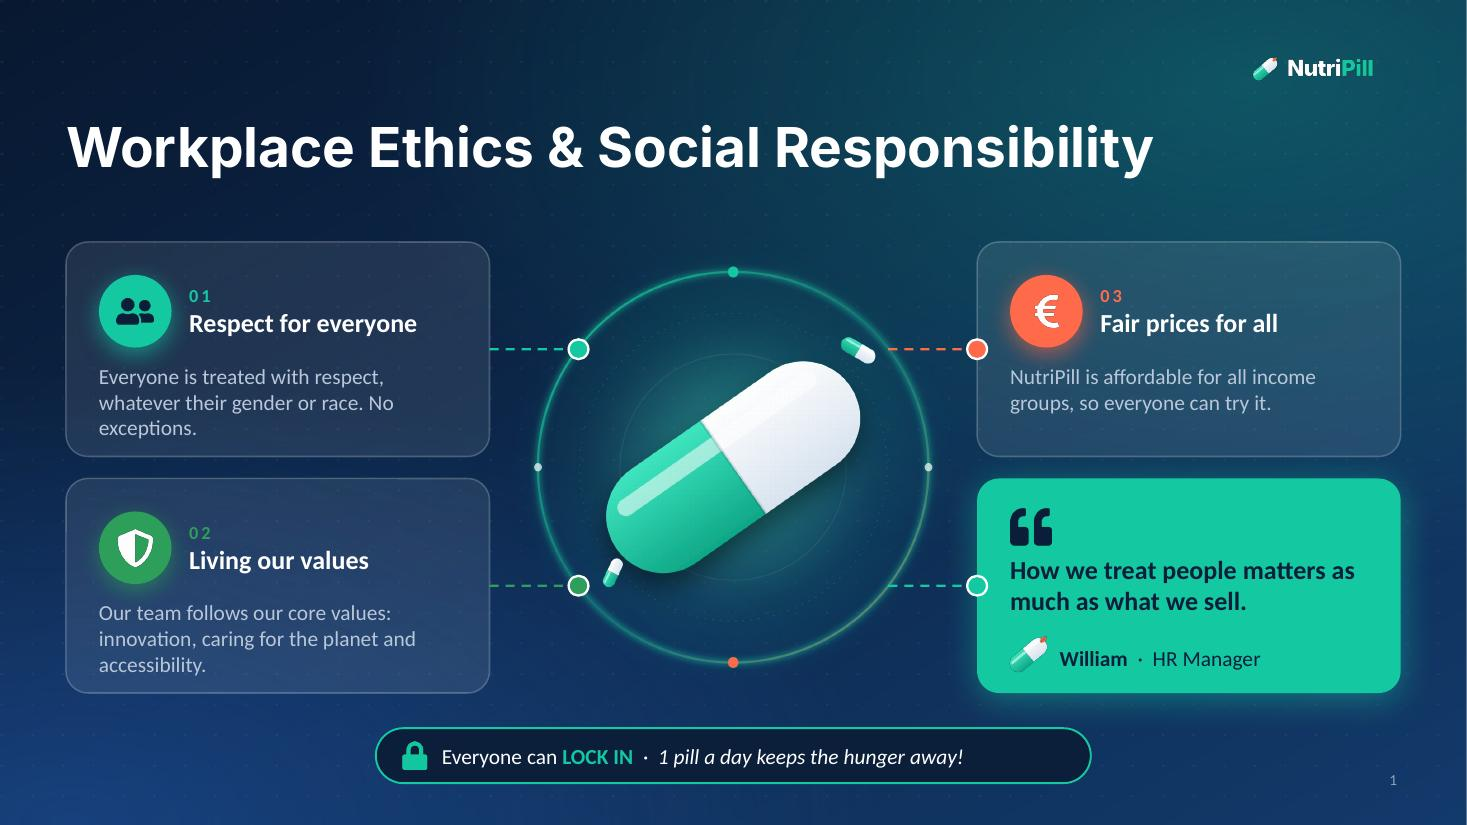
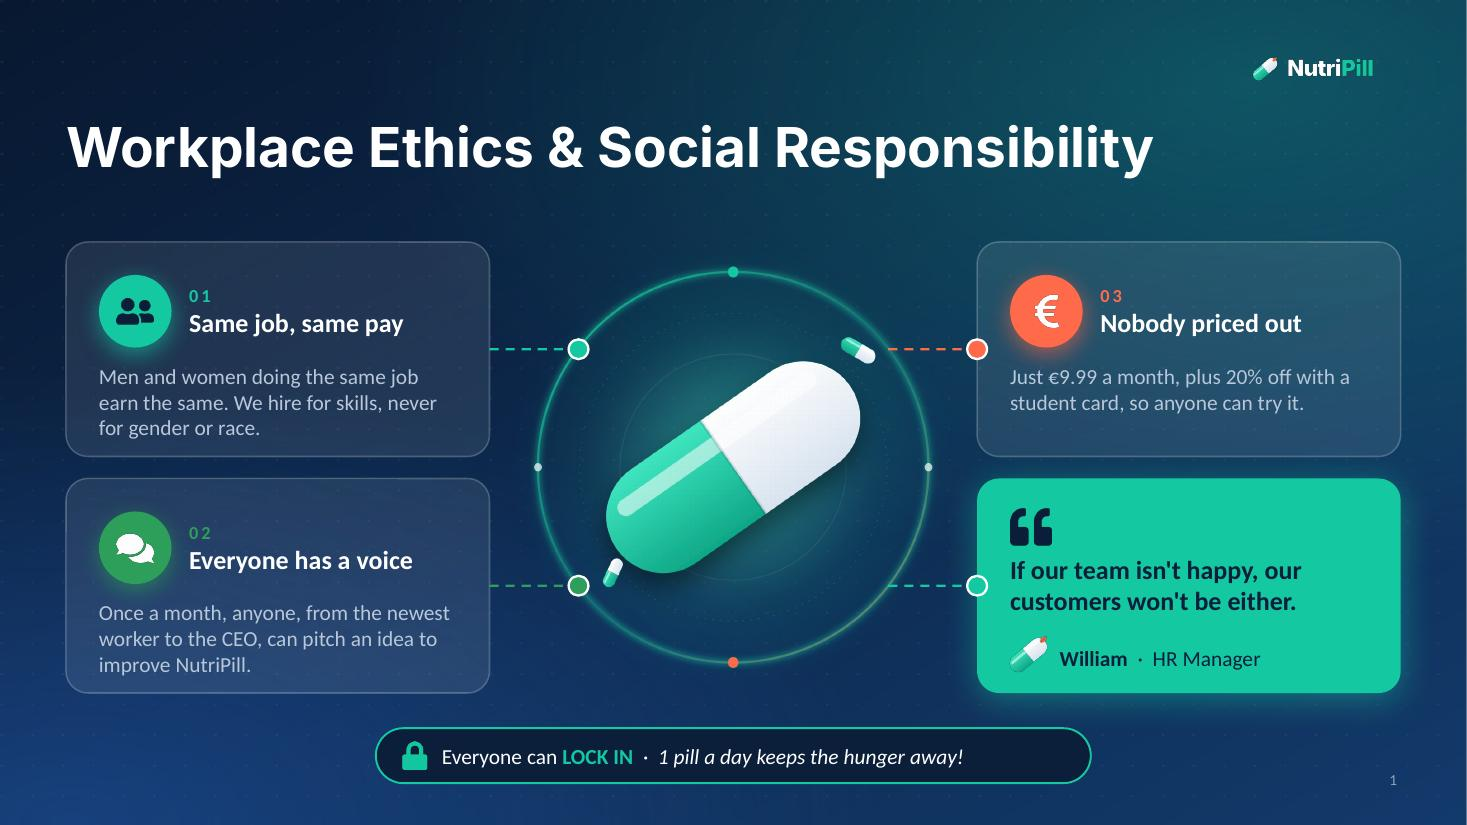
Make Workplace Ethics slide text concrete
Claude-Session: https://claude.ai/code/session_01TFmXfwWy7YkFL9ETqt4WJz

diff --git a/source/ethics.js b/source/ethics.js
@@ -70,9 +70,9 @@ const connector = (x1, x2, y, col, anim) => {
 
 const CW = 3.85, CH = 1.95, LX = 0.6, RX = 13.333 - 0.6 - CW, Y1 = 2.2, Y2 = 4.35;
 const items = [
-  [LX, Y1, "friends", "01", "Respect for everyone", "Everyone is treated with respect, whatever their gender or race. No exceptions.", HEX.mint, "navy"],
-  [LX, Y2, "shield", "02", "Living our values", "Our team follows our core values: innovation, caring for the planet and accessibility.", "2E9E5B", "white"],
-  [RX, Y1, "euro", "03", "Fair prices for all", "NutriPill is affordable for all income groups, so everyone can try it.", HEX.coral, "white"],
+  [LX, Y1, "friends", "01", "Same job, same pay", "Men and women doing the same job earn the same. We hire for skills, never for gender or race.", HEX.mint, "navy"],
+  [LX, Y2, "comments", "02", "Everyone has a voice", "Once a month, anyone, from the newest worker to the CEO, can pitch an idea to improve NutriPill.", "2E9E5B", "white"],
+  [RX, Y1, "euro", "03", "Nobody priced out", "Just €9.99 a month, plus 20% off with a student card, so anyone can try it.", HEX.coral, "white"],
 ];
 items.forEach(([x, y, icn, num, h, d, col, icol], i) => {
   const a = `a${2 + i}`;
@@ -90,7 +90,7 @@ items.forEach(([x, y, icn, num, h, d, col, icol], i) => {
 const qx = RX, qy = Y2;
 s.addShape(pres.shapes.ROUNDED_RECTANGLE, { x: qx, y: qy, w: CW, h: CH, rectRadius: 0.2, fill: { color: HEX.mint }, line: { type: "none" }, shadow: { type: "outer", color: HEX.mint, blur: 24, offset: 0, angle: 90, opacity: 0.45 }, objectName: "a5_card" });
 s.addImage({ path: ic("quote", "navy"), x: qx + 0.3, y: qy + 0.25, w: 0.38, h: 0.38, objectName: "a5_q", altText: "" });
-T(s, "How we treat people matters as much as what we sell.", { x: qx + 0.3, y: qy + 0.68, w: CW - 0.55, h: 0.75, fontSize: 17, bold: true, color: HEX.navy, objectName: "a5_t" });
+T(s, "If our team isn't happy, our customers won't be either.", { x: qx + 0.3, y: qy + 0.68, w: CW - 0.55, h: 0.75, fontSize: 17, bold: true, color: HEX.navy, objectName: "a5_t" });
 s.addImage({ path: A("logo-mark.png"), x: qx + 0.24, y: qy + 1.4, w: 0.45, h: 0.45, objectName: "a5_mark", altText: "NutriPill logo" });
 T(s, [{ text: "William", options: { bold: true } }, { text: "  ·  HR Manager", options: {} }], { x: qx + 0.75, y: qy + 1.43, w: 2.6, h: 0.4, fontSize: 14, color: HEX.navy, valign: "middle", objectName: "a5_sig" });
 { const my = qy + CH / 2, dy = Math.abs(my - CY), ox = Math.sqrt(R * 0.864 * R * 0.864 - dy * dy); connector(CX + ox, qx, my, HEX.mint, "a5"); }
@@ -102,7 +102,7 @@ s.addImage({ path: ic("lock", "mint"), x: SX + 0.22, y: SY + 0.12, w: 0.26, h: 0
 T(s, [{ text: "Everyone can ", options: { color: "FFFFFF" } }, { text: "LOCK IN", options: { color: HEX.mint, bold: true } }, { text: "  ·  1 pill a day keeps the hunger away!", options: { color: "FFFFFF", italic: true } }],
   { x: SX + 0.6, y: SY, w: SW - 0.75, h: 0.5, fontSize: 14, valign: "middle", objectName: "a6_t" });
 
-s.addNotes("As HR Manager, I'm responsible for how people work together at NutriPill, because for us, how we treat people matters as much as what we sell. Our workplace ethics are based on three ideas. First, respect for everyone: every employee is treated with respect, whatever their gender or race, with no exceptions. Second, living our values: we expect our team to follow our core values, which are innovation, caring for the planet and accessibility. And third, our social responsibility doesn't stop with our employees, it includes our customers too. That's why NutriPill is affordable for all income groups, so that everyone can try it and, as our slogan says, lock in.");
+s.addNotes("As HR Manager, I believe one simple thing: if our team isn't happy, our customers won't be either. So we have three clear rules. First, same job, same pay. Men and women who do the same job earn exactly the same, and we hire people for their skills, never because of their gender or race. Second, everyone has a voice. Once a month, anyone in the company, from the newest worker to the CEO, can pitch an idea to improve NutriPill. That's how we keep innovation alive. And third, nobody is priced out. Our social responsibility includes our customers too, so NutriPill costs just 9.99 a month, and students get 20% off with their student card. That way, anyone can try it and, as our slogan says, lock in.");
 
 (async () => {
   const out = path.join(__dirname, "Ethics-slide.pptx");
